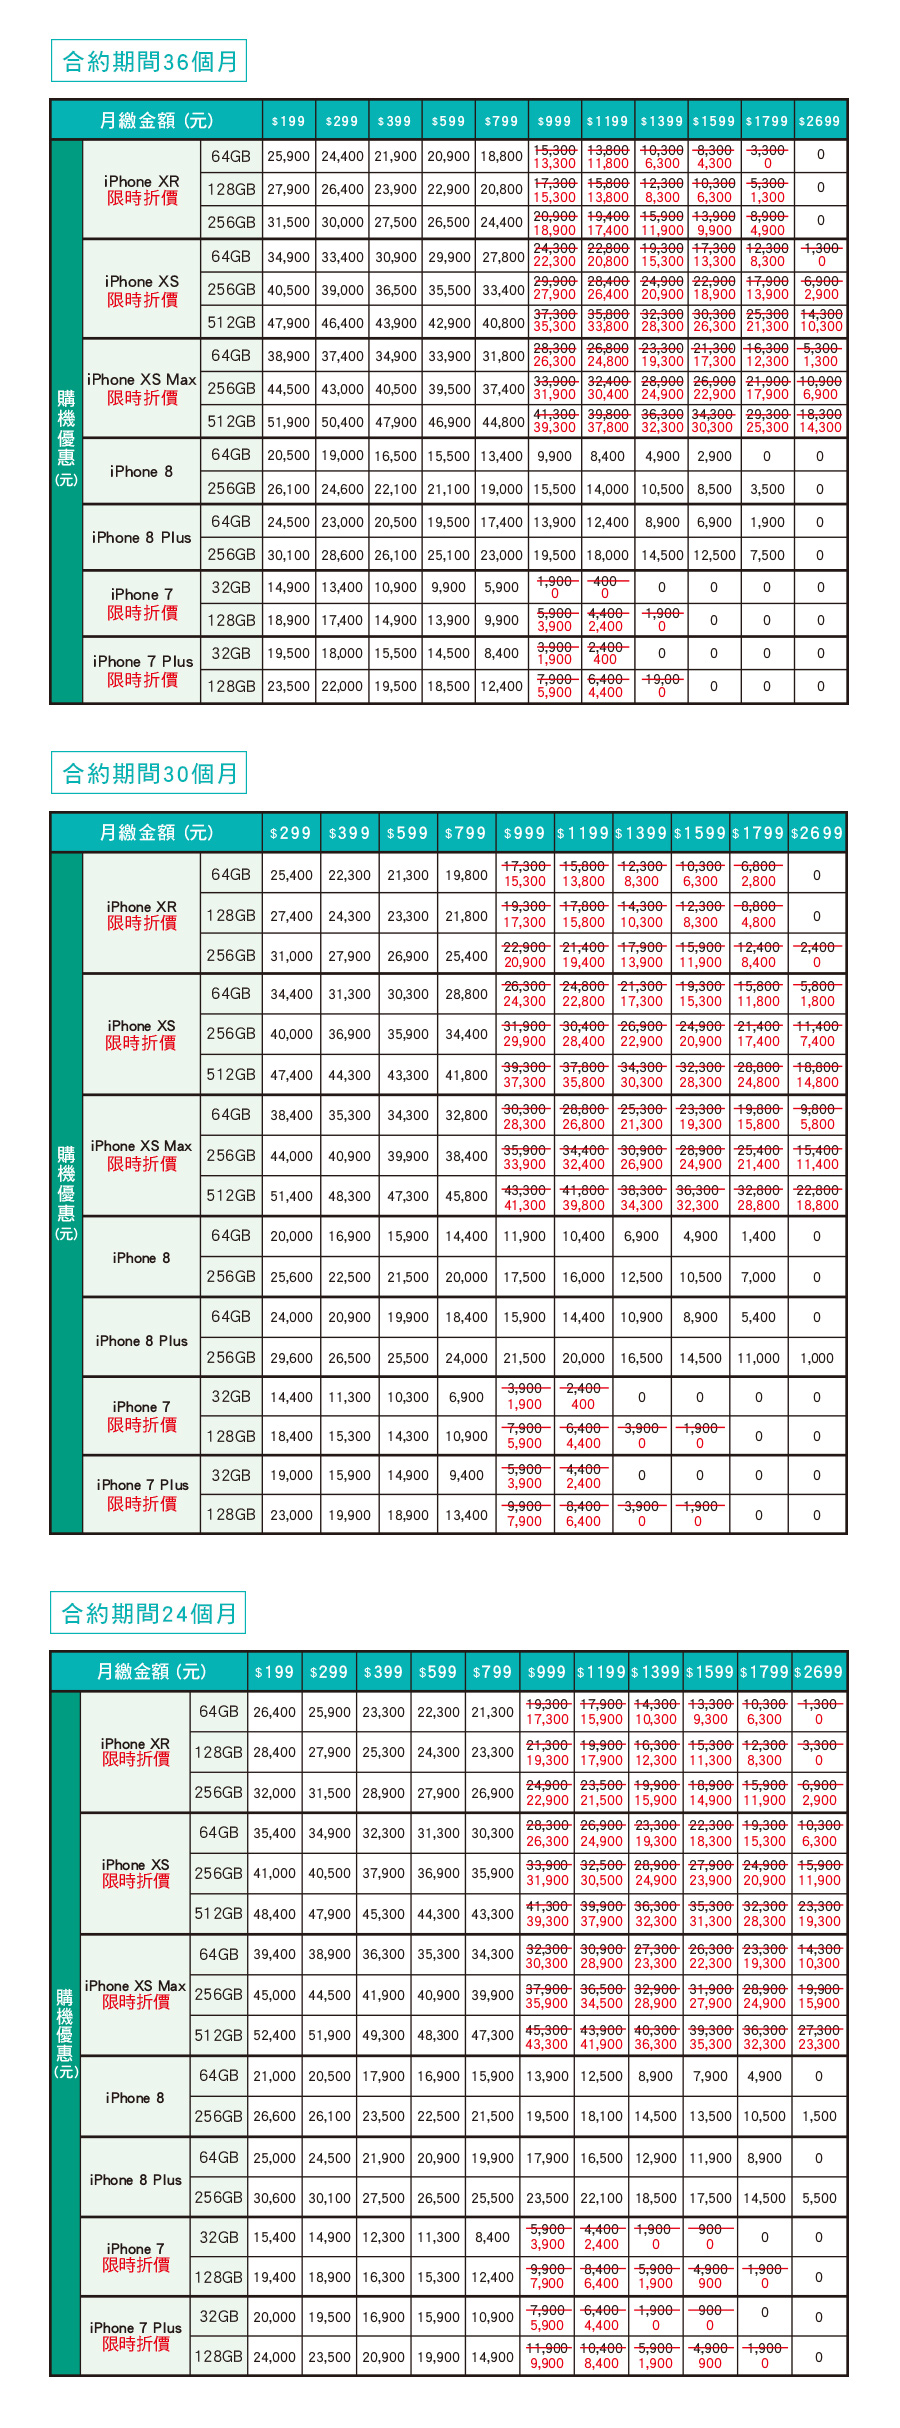
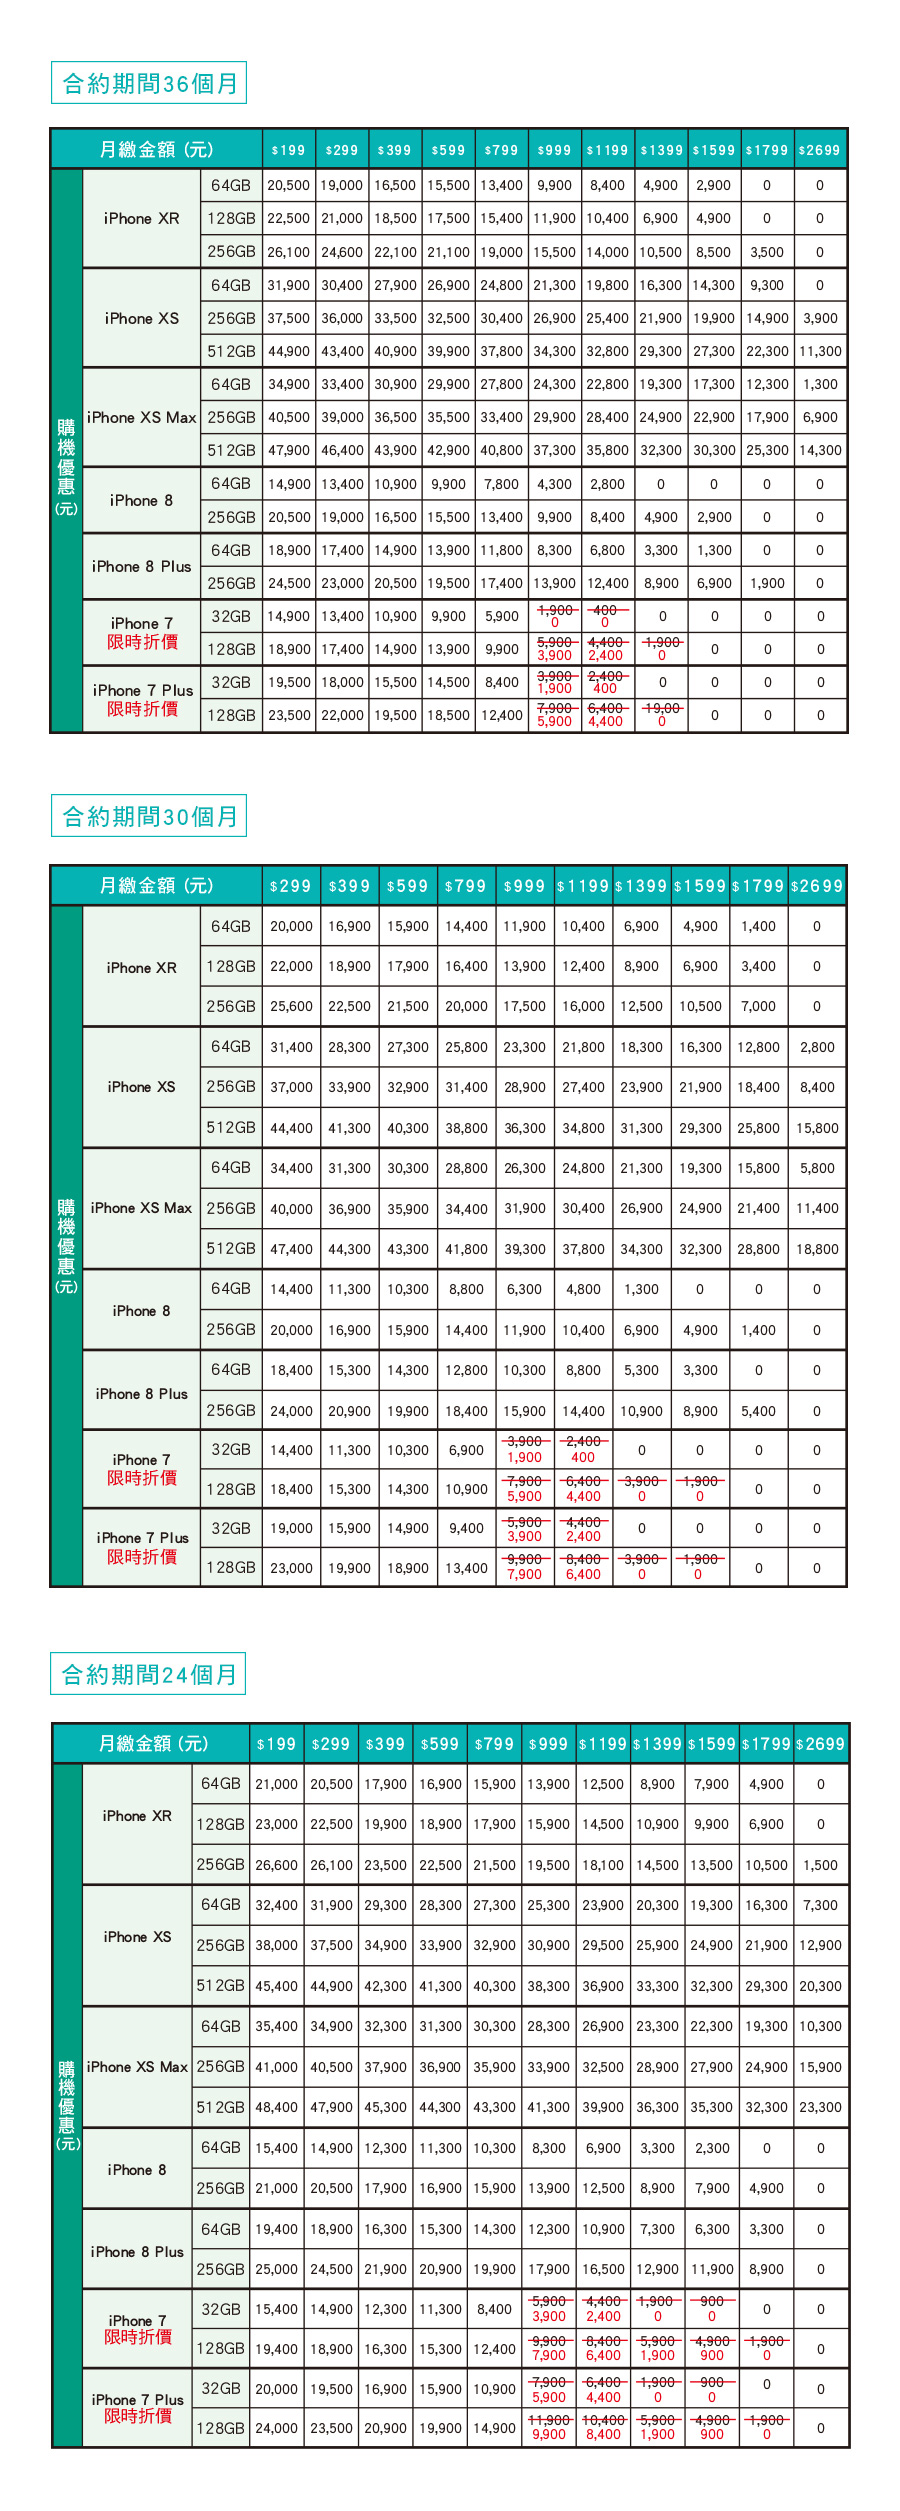
iPhone
更新所有資費費率
更換連結GA code
更新保護文字
刪除文字
更新日期

Changed region(s): [[0.0311, 0.0, 0.9644, 0.9885]]

diff --git a/demo/iPhone/assets/js/app.js b/demo/iPhone/assets/js/app.js
@@ -71,19 +71,19 @@ var plan_content = {
         "type": "table2",
         "plan": ["388元", "588元", "688元"],
         "content": [
-            ["h1row", "iPhone XR", "64GB", "-", "22,900", "21,900"],
-            ["h1row", "iPhone XR", "128GB", "-", "24,900", "23,900"],
-            ["h1row", "iPhone XR", "256GB", "-", "28,500", "27,500"],
-            ["h1row", "iPhone XS", "64GB", "-", "31,900", "30,900"],
-            ["h1row", "iPhone XS", "256GB", "-", "37,500", "36,500"],
-            ["h1row", "iPhone XS", "512GB", "-", "44,900", "43,900"],
-            ["h1row", "iPhone XS Max", "64GB", "-", "35,900", "34,900"],
-            ["h1row", "iPhone XS Max", "256GB", "-", "41,500", "40,500"],
-            ["h1row", "iPhone XS Max", "512GB", "-", "48,900", "47,900"],
-            ["h1row", "iPhone 8", "64GB", "17,500", "15,500", "14,500"],
-            ["h1row", "iPhone 8", "256GB", "23,100", "21,100", "20,100"],
-            ["h1row", "iPhone 8 Plus", "64GB", "21,500", "19,500", "18,500"],
-            ["h1row", "iPhone 8 Plus", "256GB", "27,100", "25,100", "24,100"],
+            ["h1row", "iPhone XR", "64GB", "-", "17,500", "16,500"],
+            ["h1row", "iPhone XR", "128GB", "-", "19,500", "18,500"],
+            ["h1row", "iPhone XR", "256GB", "-", "23,100", "22,100"],
+            ["h1row", "iPhone XS", "64GB", "-", "28,900", "27,900"],
+            ["h1row", "iPhone XS", "256GB", "-", "34,500", "33,500"],
+            ["h1row", "iPhone XS", "512GB", "-", "41,900", "40,900"],
+            ["h1row", "iPhone XS Max", "64GB", "-", "31,900", "30,900"],
+            ["h1row", "iPhone XS Max", "256GB", "-", "37,500", "36,500"],
+            ["h1row", "iPhone XS Max", "512GB", "-", "44,900", "43,900"],
+            ["h1row", "iPhone 8", "64GB", "11,900", "11,900", "10,900"],
+            ["h1row", "iPhone 8", "256GB", "17,500", "17,500", "16,500"],
+            ["h1row", "iPhone 8 Plus", "64GB", "15,900", "15,900", "14,900"],
+            ["h1row", "iPhone 8 Plus", "256GB", "21,500", "21,500", "20,500"],
             ["h1row", "iPhone 7", "32GB", "10,900", "8,900", "7,900"],
             ["h1row", "iPhone 7", "128GB", "14,900", "12,900", "11,900"],
             ["h1row", "iPhone 7 Plus", "32GB", "13,400", "11,400", "10,400"],
@@ -93,13 +93,11 @@ var plan_content = {
     'upgrade.json': {
         "type": "table3",
         "content": [
-            ["iPhone XR", "64GB", "26,900",  "128GB", "28,900", "256GB", "32,500"],
-            ["iPhone XS", "64GB", "35,900",  "256GB", "41,500",  "512GB", "48,900"],
-            ["iPhone XS Max", "64GB", "39,900",  "256GB", "45,500", "512GB", "52,900"],
-            ["iPhone 8", "64GB", "21,500",  "256GB", "27,100"],
-            ["iPhone 8 Plus", "64GB", "25,500", "256GB", "31,100"],
-            ["iPhone 7", "32GB", "15,900",  "128GB", "19,900"],
-            ["iPhone 7 Plus", "32GB", "20,500",  "128GB", "24,500"]
+            ["iPhone XR", "64GB", "21,500",  "128GB", "23,500", "256GB", "27,100"],
+            ["iPhone XS", "64GB", "32,900",  "256GB", "38,500",  "512GB", "45,900"],
+            ["iPhone XS Max", "64GB", "35,900",  "256GB", "41,500", "512GB", "48,900"],
+            ["iPhone 8", "64GB", "15,900",  "256GB", "21,500"],
+            ["iPhone 8 Plus", "64GB", "19,900", "256GB", "25,500"]
         ]
     },
     '2gto4g.json': {
@@ -180,19 +178,19 @@ var plan_content = {
         "type": "table8",
         "plan": ["699元"],
         "content": [
-            ["h1row", "iPhone XR", "64GB", "21,800"],
-            ["h1row", "iPhone XR", "128GB", "22,800"],
-            ["h1row", "iPhone XR", "256GB", "26,400"],
-            ["h1row", "iPhone XS", "64GB", "29,800"],
-            ["h1row", "iPhone XS", "256GB", "35,400"],
-            ["h1row", "iPhone XS", "512GB", "42,800"],
-            ["h1row", "iPhone XS Max", "64GB", "33,800"],
-            ["h1row", "iPhone XS Max", "256GB", "39,400"],
-            ["h1row", "iPhone XS Max", "512GB", "46,800"],
-            ["h1row", "iPhone 8", "64GB", "16,900"],
-            ["h1row", "iPhone 8", "256GB", "22,500"],
-            ["h1row", "iPhone 8 Plus", "64GB", "20,900"],
-            ["h1row", "iPhone 8 Plus", "256GB", "26,500"],
+            ["h1row", "iPhone XR", "64GB", "16,000"],
+            ["h1row", "iPhone XR", "128GB", "18,000"],
+            ["h1row", "iPhone XR", "256GB", "21,600"],
+            ["h1row", "iPhone XS", "64GB", "27,400"],
+            ["h1row", "iPhone XS", "256GB", "33,000"],
+            ["h1row", "iPhone XS", "512GB", "40,400"],
+            ["h1row", "iPhone XS Max", "64GB", "30,400"],
+            ["h1row", "iPhone XS Max", "256GB", "36,000"],
+            ["h1row", "iPhone XS Max", "512GB", "43,400"],
+            ["h1row", "iPhone 8", "64GB", "10,400"],
+            ["h1row", "iPhone 8", "256GB", "16,000"],
+            ["h1row", "iPhone 8 Plus", "64GB", "14,400"],
+            ["h1row", "iPhone 8 Plus", "256GB", "20,000"],
             ["h1row", "iPhone 7", "32GB", "9,900"],
             ["h1row", "iPhone 7", "128GB", "13,900"],
             ["h1row", "iPhone 7 Plus", "32GB", "12,400"],

diff --git a/demo/iPhone/plan_4g.html b/demo/iPhone/plan_4g.html
@@ -32,7 +32,7 @@
     <header class="header">
     </header>
     <div class="main container main-rateplan rateplan-big4g">
-       <h1 style="color:#ff0000;font-size:1.5em;line-height:1.5em;">【限時折價】<div class="mobile-only"><br></div>指定機型最高折$4,000　</h1>
+       <!--<h1 style="color:#ff0000;font-size:1.5em;line-height:1.5em;">【限時折價】<div class="mobile-only"><br></div>指定機型最高折$4,000　</h1>-->
         <h1 class="mobile-center">大4G購機方案</h1>
         <hr>
         <div class="list-goods">
@@ -47,11 +47,11 @@
             <table>
                 <tr>
                     <td>活動期間：</td>
-                    <td>自108/07/01起至108/09/30</td>
+                    <td>自108/09/12起至108/09/30</td>
                 </tr>
                 <tr>
                     <td>申辦地點：</td>
-                    <td>中華電信560多家iPhone銷售門市、特約服務中心、中華電信官網</td>
+                    <td>中華電信iPhone銷售門市、特約服務中心、中華電信官網</td>
                 </tr>
                 <tr>
                     <td>適用對象：<div id="ttable"></div>
@@ -121,7 +121,7 @@
             <h3><span class="h3-border">貼心小叮嚀</h3>
             <ol>
                 <li> 詳細方案優惠內容與限制請詳閱<a href="https://eshop.cht.com.tw/home/Campaign/big4g/index.html?utm_source=news&utm_medium=referral&utm_campaign=big4g&utm_term=2017q3&_ga=2.98175775.1683239904.1531883624-1448243386.1523848672" target="_blank" onclick="javascript:ga('send', 'event', 'btn1', 'action', '4gnew_more');">大4G方案頁面</a>。</li>
-				<li> 108/09/30前，申辦大4G購機方案購買iPhone XS Max / iPhone XS/ iPhone XR/ iPhone 7 / iPhone 7 Plus，月繳999/1,199元購機折2,000元、月繳1,399元以上購機折4,000元，手機促銷至多折至0元止。</li>
+				<li> 108/09/30前，申辦大4G購機方案購買iPhone 7 / iPhone 7 Plus，月繳999/1,199元購機折2,000元、月繳1,399元以上購機折4,000元，手機促銷至多折至0元止。</li>
 				<li> iPhone銷售門市詳細資訊請至中華電信官網服務據點<a href="https://www.cht.com.tw/home/cht/about-cht/business-group/store-locator" target="_blank">查詢</a>。上述機型/顏色/容量供貨情況依各銷售門市現場為準，數量有限售完為止，詳情請洽門市人員。</li>
 				<li> 上述優惠內容與相關條件限制依申辦現場同意書為準，中華電信保有隨時修正、暫停、中止本活動之權利。</li>
             </ol>

diff --git a/demo/iPhone/index.html b/demo/iPhone/index.html
@@ -44,7 +44,7 @@
 						<div class="box desktop-only">
 				<img class="index-image-iphone desktop-only" src="assets/images/banner_summer.jpg" usemap="#image-mapa02">
 				<map name="image-mapa02">
-				    <area target="" alt="了解更多" title="了解更多" href="https://iphone-eshop.cdn.hinet.net/Next.html" onclick="javascript:ga('send', 'event', 'btn1', 'action', 'bookingnewiphone11');" coords="561,331,701,377" shape="rect">
+				    <area target="" alt="了解更多" title="了解更多" href="https://registration.emome.net/" onclick="javascript:ga('send', 'event', 'btn1', 'action', 'startbookingiphone11');" coords="561,331,701,377" shape="rect">
 				    <!-- <area target="_blank" alt="立即申辦" title="立即申辦" href="https://www.cht.com.tw/home/consumer/mobservice/device/phones?&_ga=2.94269402.650880896.1566806649-1759749731.1564449961#!brand%3Avalues%3Dapple%26_orderby%3A%26_page%3A1" coords="639,352,779,395" shape="rect"> -->
 				</map>
 				</div>
@@ -54,7 +54,7 @@
 						<div class="box ">
 							<img class="index-image-iphone mobile-only " src="assets/images/banner_summer_m.jpg" usemap="#image-mapa01">
 							<map name="image-mapa01">
-								<area target="" alt="了解更多" title="了解更多" href="https://iphone-eshop.cdn.hinet.net/Next.html" onclick="javascript:ga('send', 'event', 'btn1', 'action', 'bookingnewiphone11');" coords="120,400,204,426" shape="rect">
+								<area target="" alt="了解更多" title="了解更多" href="https://registration.emome.net/" onclick="javascript:ga('send', 'event', 'btn1', 'action', 'startbookingiphone11');" coords="120,400,204,426" shape="rect">
 							    <!-- <area target="_blank" alt="立即申辦" title="立即申辦" href="https://www.cht.com.tw/home/consumer/mobservice/device/phones?&_ga=2.94269402.650880896.1566806649-1759749731.1564449961#!brand%3Avalues%3Dapple%26_orderby%3A%26_page%3A1" coords="166,383,245,406" shape="rect">-->
 							</map>
 						</div>

diff --git a/demo/iPhone/plan_4g_up.html b/demo/iPhone/plan_4g_up.html
@@ -46,11 +46,11 @@
 			<table>
 				<tr>
 					<td>活動期間：</td>
-					<td>自108/07/01起至108/09/30</td>
+					<td>自108/09/12起至108/09/30</td>
 				</tr>
 				<tr>
 					<td>申辦地點：</td>
-					<td>中華電信560多家iPhone銷售門市、特約服務中心
+					<td>中華電信iPhone銷售門市、特約服務中心
 					</td>
 				</tr>
 				<tr>
@@ -88,28 +88,28 @@
 				<tr>
 					<td rowspan="2">iPhone 8</td>
 					<td class="color-6 left-3-td h1row newer">64GB</td>
+					<td>14,900</td>
+					<td>11,900</td>
+					<td>10,400</td>
+				</tr>
+				<tr>
+					<td>256GB</td>
 					<td>20,500</td>
 					<td>17,500</td>
 					<td>16,000</td>
 				</tr>
 				<tr>
-					<td>256GB</td>
-					<td>26,100</td>
-					<td>23,100</td>
-					<td>21,600</td>
-				</tr>
-				<tr>
 					<td rowspan="2">iPhone 8 Plus</td>
 					<td class="color-6 left-3-td h1row newer">64GB</td>
+					<td>18,900</td>
+					<td>15,900</td>
+					<td>14,400</td>
+				</tr>
+				<tr>
+					<td>256GB</td>
 					<td>24,500</td>
 					<td>21,500</td>
 					<td>20,000</td>
-				</tr>
-				<tr>
-					<td>256GB</td>
-					<td>30,100</td>
-					<td>27,100</td>
-					<td>25,600</td>
 				</tr>
 				<tr>
 					<td rowspan="2">iPhone 7</td>

diff --git a/demo/iPhone/plan_student.html b/demo/iPhone/plan_student.html
@@ -37,11 +37,11 @@
             <table>
                 <tr>
                     <td>活動期間：</td>
-                    <td>自108/09/02起至109/01/01</td>
+                    <td>自108/09/12起至109/01/01</td>
                 </tr>
                 <tr>
                     <td>申辦地點：</td>
-                    <td>中華電信560多家iPhone銷售門市、特約服務中心、中華電信官網</td>
+                    <td>中華電信iPhone銷售門市、特約服務中心、中華電信官網</td>
                 </tr>
                 <tr>
                     <td>適用對象：</td>

diff --git a/demo/iPhone/plan_upgrade.html b/demo/iPhone/plan_upgrade.html
@@ -37,11 +37,11 @@
             <table>
                 <tr>
                     <td>活動期間：</td>
-                    <td>自108/07/01起</td>
+                    <td>自108/09/12起</td>
                 </tr>
                 <tr>
                     <td>申辦地點：</td>
-                    <td>中華電信560多家iPhone銷售門市、特約服務中心
+                    <td>中華電信iPhone銷售門市、特約服務中心
                     </td>
                 </tr>
             </table>

diff --git a/demo/iPhone/plan_699.html b/demo/iPhone/plan_699.html
@@ -47,11 +47,11 @@
 			<table>
 				<tr>
 					<td>活動期間：</td>
-					<td>自108/07/01起至108/09/30</td>
+					<td>自108/09/12起至108/09/30</td>
 				</tr>
 				<tr>
 					<td>申辦地點：</td>
-					<td>中華電信560多家iPhone銷售門市、特約服務中心、中華電信官網</td>
+					<td>中華電信iPhone銷售門市、特約服務中心、中華電信官網</td>
 				</tr>
 				<tr>
 					<td>適用對象：<div id="ttable"></div>
